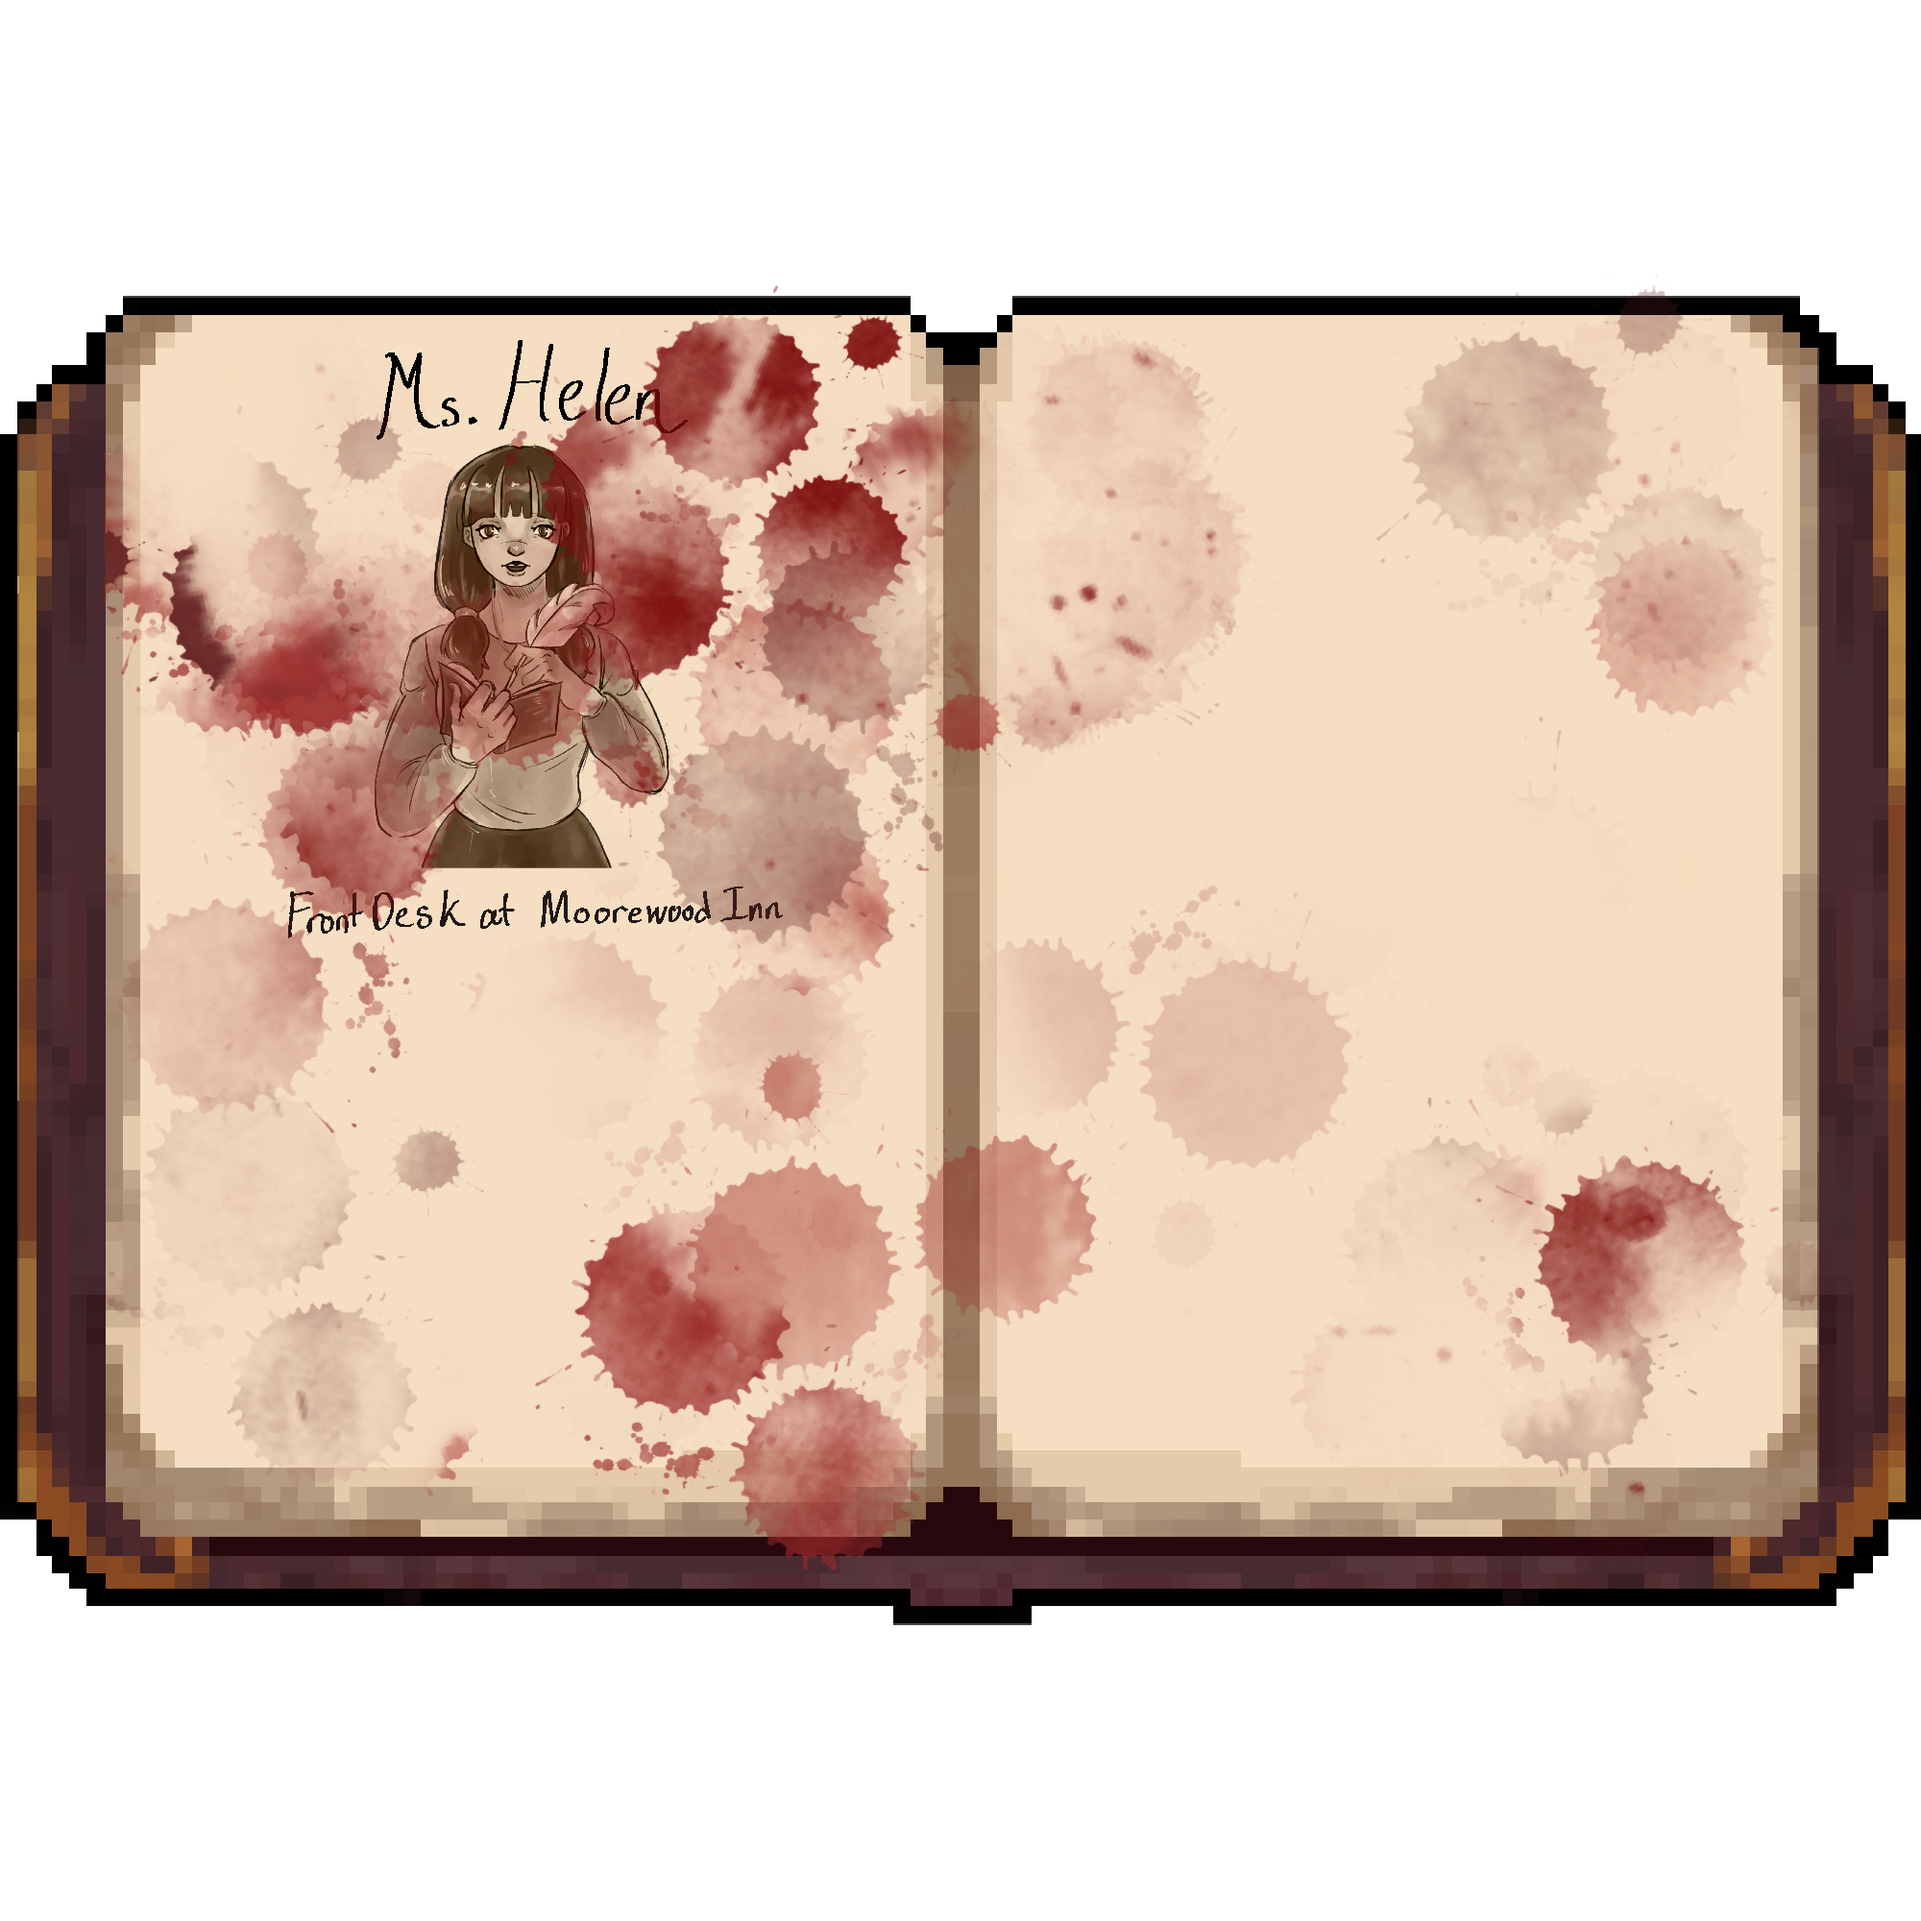
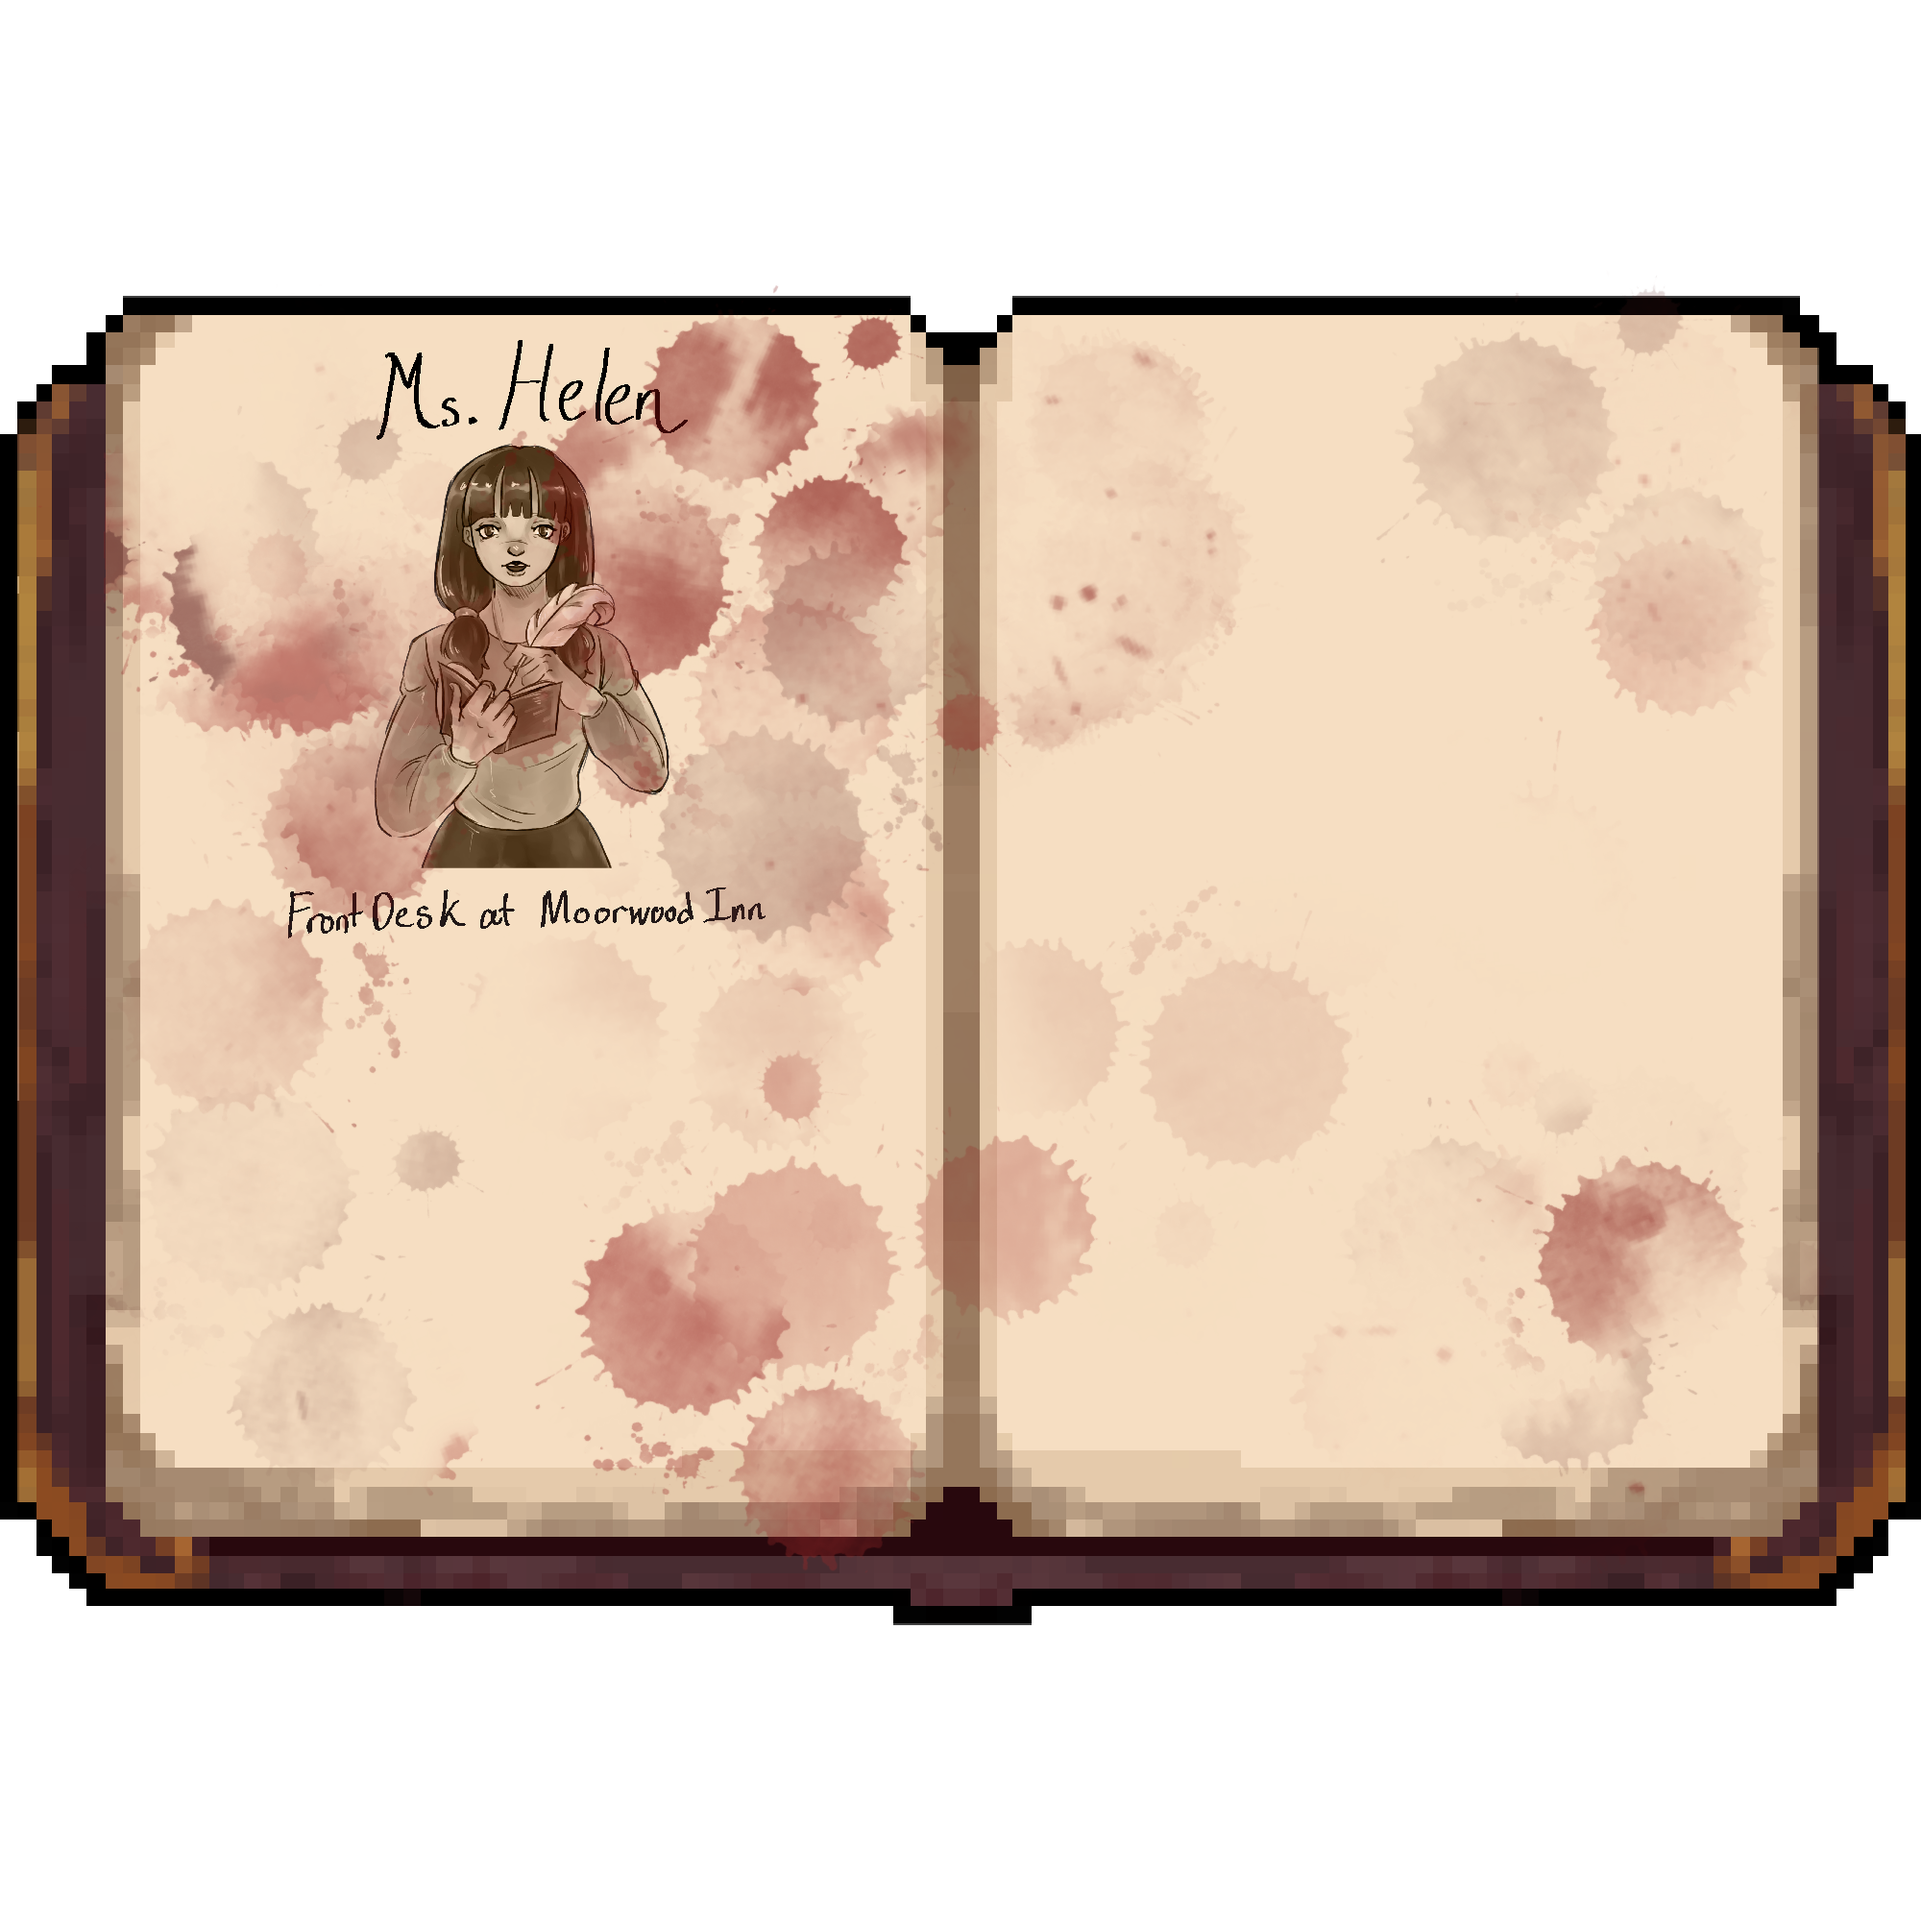
journal edits

diff --git a/clutter.js b/clutter.js
@@ -711,7 +711,7 @@ const roomLayout = [
     monologue:
       "A doctor marking up a page about a plant that isn't commonly used in  medicine anymore. That's strange. Or maybe I don't know enough about medicine to know if it's strange. I'm writing it down anyway. Hmmm... I see a note here from Helen.  Helen was watching her. Helen figured something out and wrote it down and now Helen is dead and this page is still here. My hands are shaking and I don't know if that's fear or the fact that I haven't eaten today.",
     journalEntry:
-      "Medicinal Plants book:  wolfsbane page dog-eared, personal margin marks, not clinical annotations.",
+      "Medicinal Plants book:  wolfsbane page dog-eared, personal margin marks, not clinical annotations, and a ripped page of a journal entry from H, how did it get here?",
     closeupAsset: "medicinal_plat_book",
     closeupLabel: "Medicinal Book",
     helenEntry: {

diff --git a/journal.js b/journal.js
@@ -177,19 +177,24 @@ class Journal {
 
     if (page.textEntries.length > 0) {
       let entryX = width * 0.29 + 350;
-      let entryY = 250;
+      let entryY = 255;
       let entryW = 650 / 2 - 80;
 
       fill(40, 20, 10);
       textSize(12);
       textAlign(LEFT, TOP);
       textStyle(ITALIC);
+      textFont(journalFont);
 
       for (let i = 0; i < page.textEntries.length; i++) {
-        text("• " + page.textEntries[i], entryX, entryY + i * 75, entryW, 200);
+        const entryText = "• " + page.textEntries[i];
+        text(entryText, entryX, entryY, entryW, 200);
+
+        entryY += measureWrappedHeight(entryText, entryW, 12);
       }
+
       textStyle(NORMAL);
-      textFont(mainFont); // reset at the end
+      textFont(mainFont);
     }
 
     // ─── Helen structured entries (FDL page only) ────────────

diff --git a/index.html b/index.html
@@ -3,7 +3,7 @@
   <head>
     <meta charset="UTF-8" />
     <meta name="viewport" content="width=device-width, initial-scale=1.0" />
-    <title>Through the Woods</title>
+    <title>Murder at the Moorwood Inn</title>
 
     <!-- Load p5 exactly once -->
     <script src="https://cdn.jsdelivr.net/npm/p5@1.9.4/lib/p5.min.js"></script>
